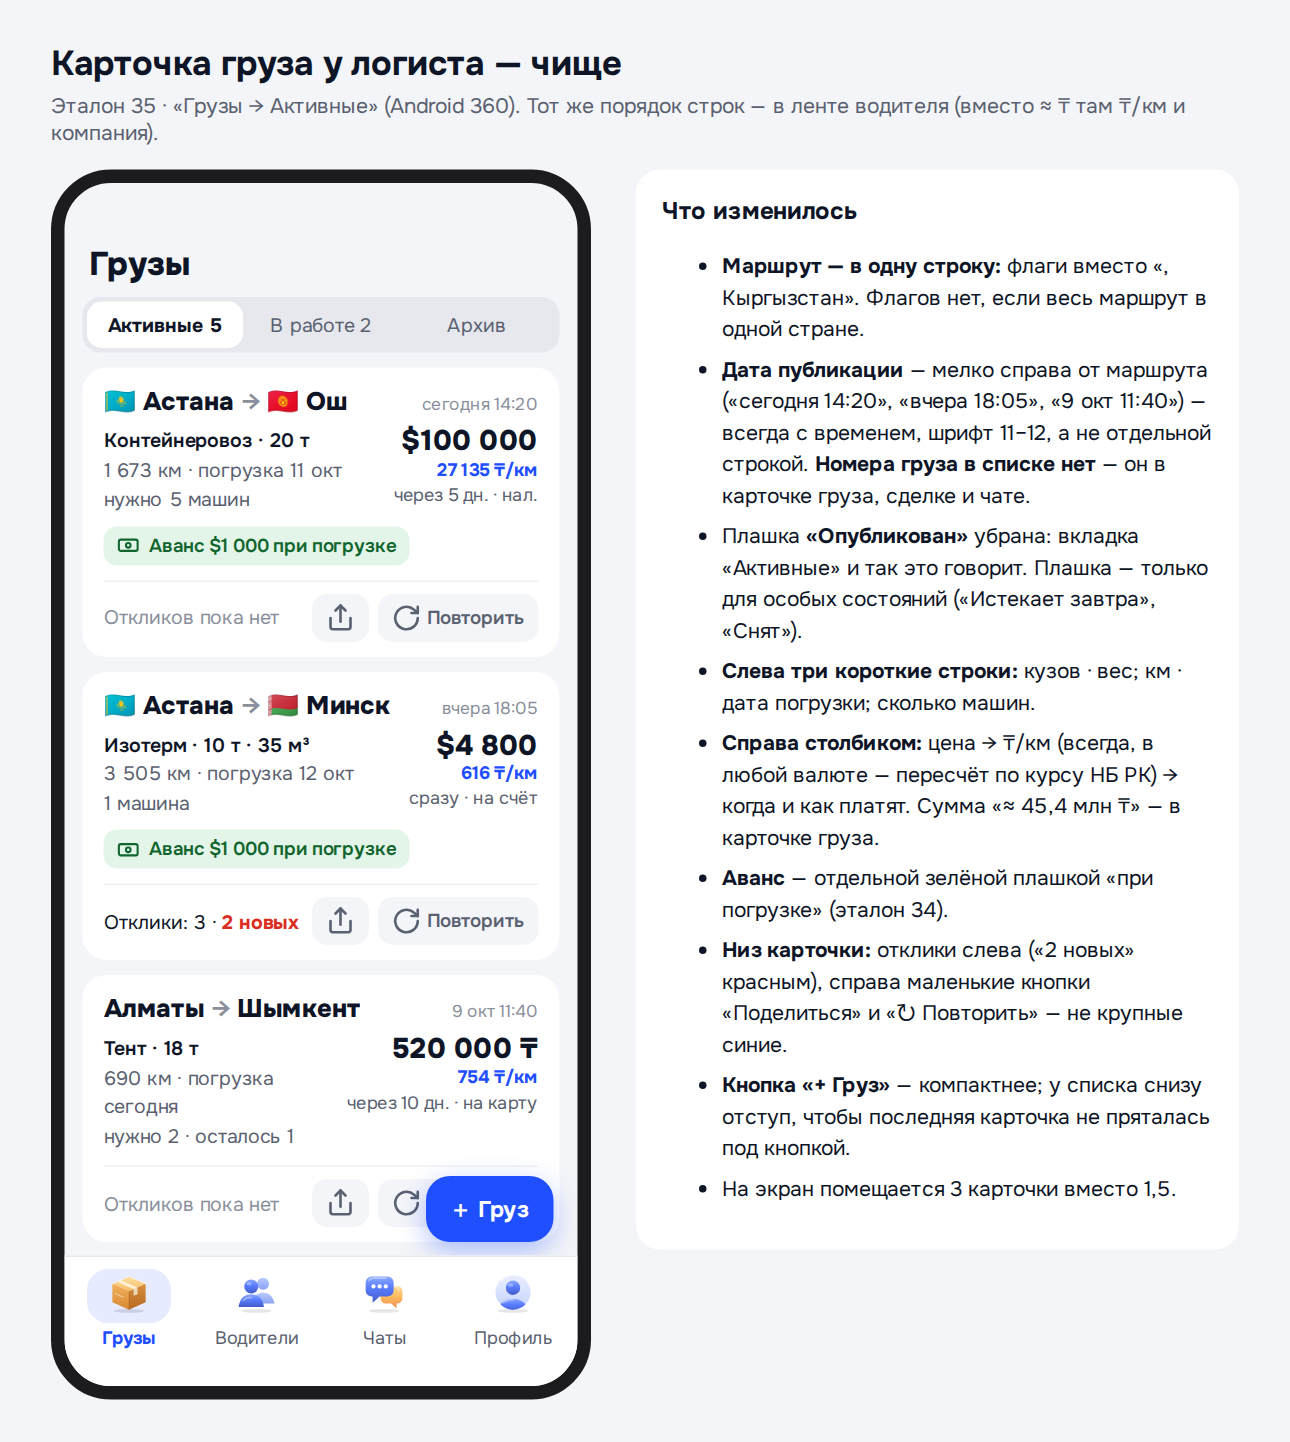
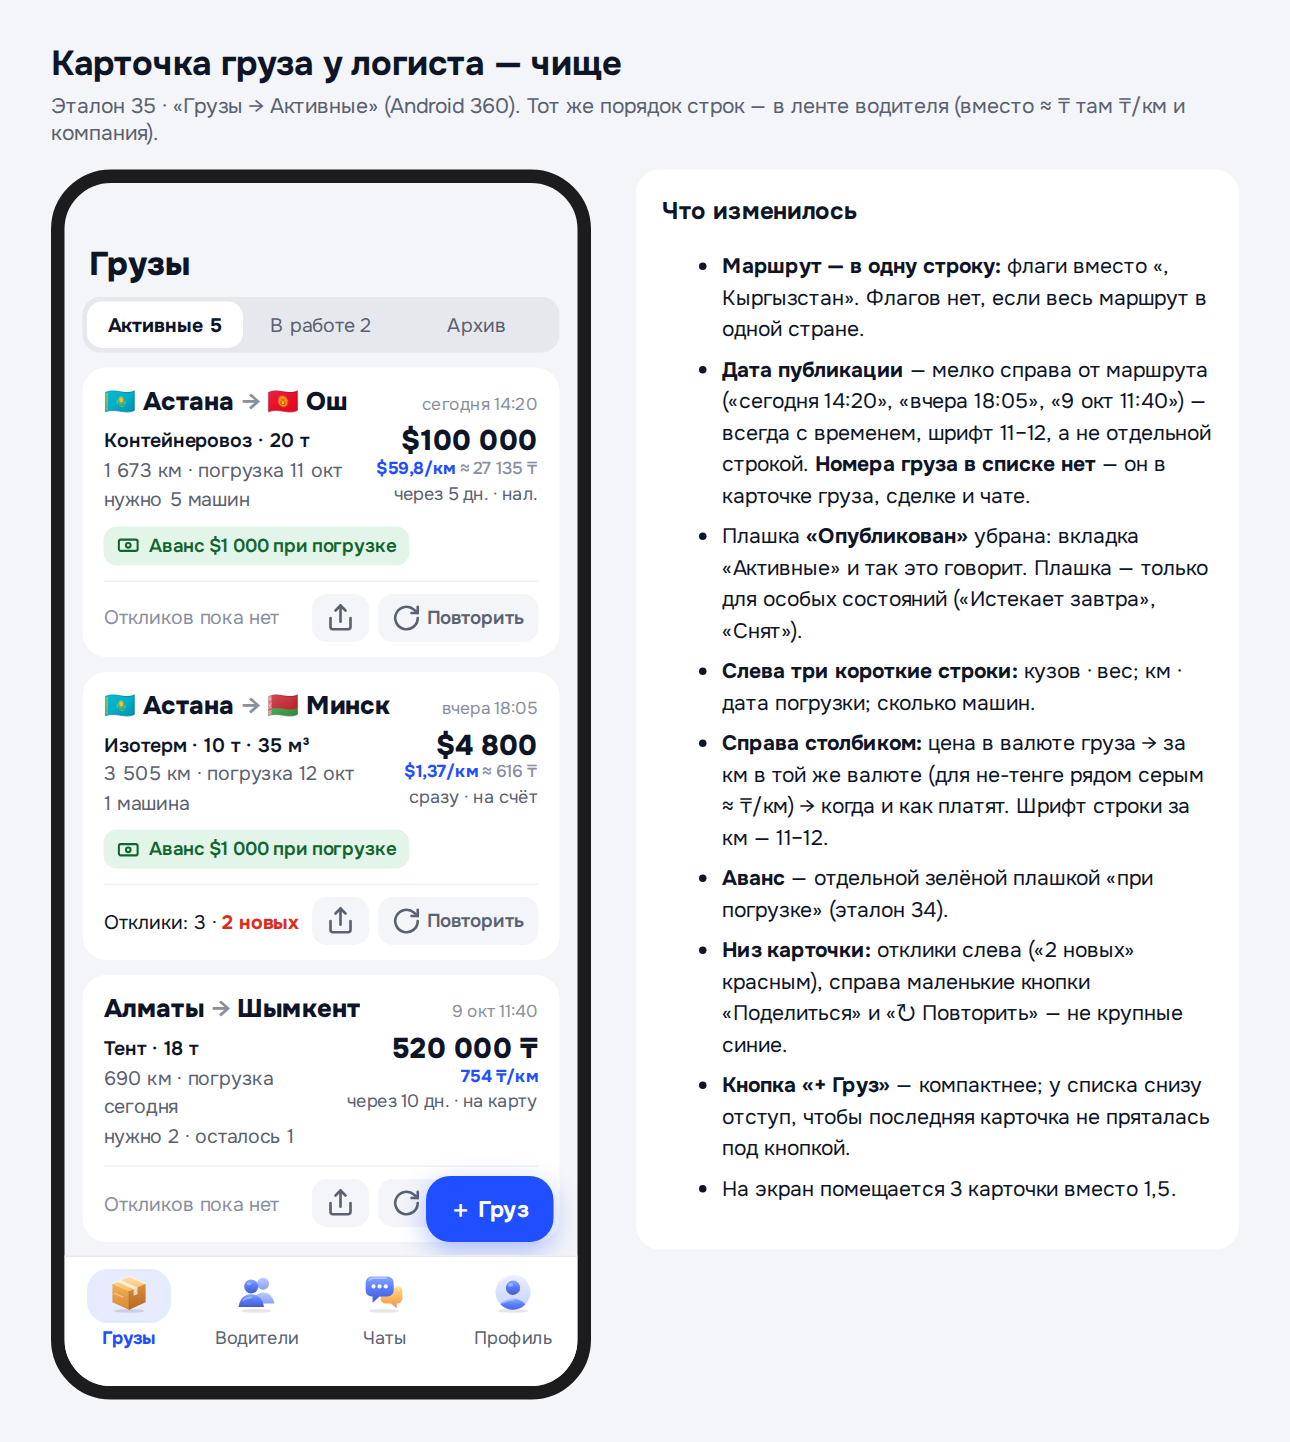
063: за км — в валюте груза, рядом серым ≈ ₸
Claude-Session: https://claude.ai/code/session_01Ff8oopsZvobH79mMVJKnFv

diff --git a/docs/tasks/063-payment-layout.md b/docs/tasks/063-payment-layout.md
@@ -28,7 +28,7 @@ ARB 4 языка; старые ключи `cargoAdvance` / `paymentDelayShort` /
   3. «нужно 5 машин» / «1 машина» / «нужно 2 · осталось 1».
 - **Справа столбиком:**
   1. цена;
-  2. **₸/км всегда, в любой валюте** (пересчёт по курсу НБ РК, как в ленте водителя): $100 000 / 1 673 км → «27 135 ₸/км»; сумма «≈ 45 393 000 ₸» — только в карточке груза (уточнение владельца 2026-10-11);
+  2. **за км в валюте груза** (уточнение владельца 2026-10-11): «$59,8/км», для не-тенге рядом серым «≈ 27 135 ₸»; для тенге — «754 ₸/км». Шрифт строки 11–12, не переносится; сумма «≈ 45 393 000 ₸» — только в карточке груза. То же — в ленте водителя (сортировка и фильтр по-прежнему по ₸/км);
   3. «через 5 дн. · нал.».
 - **Аванс** — зелёная плашка снизу (как выше).
 - **Низ карточки** — тонкая черта:
